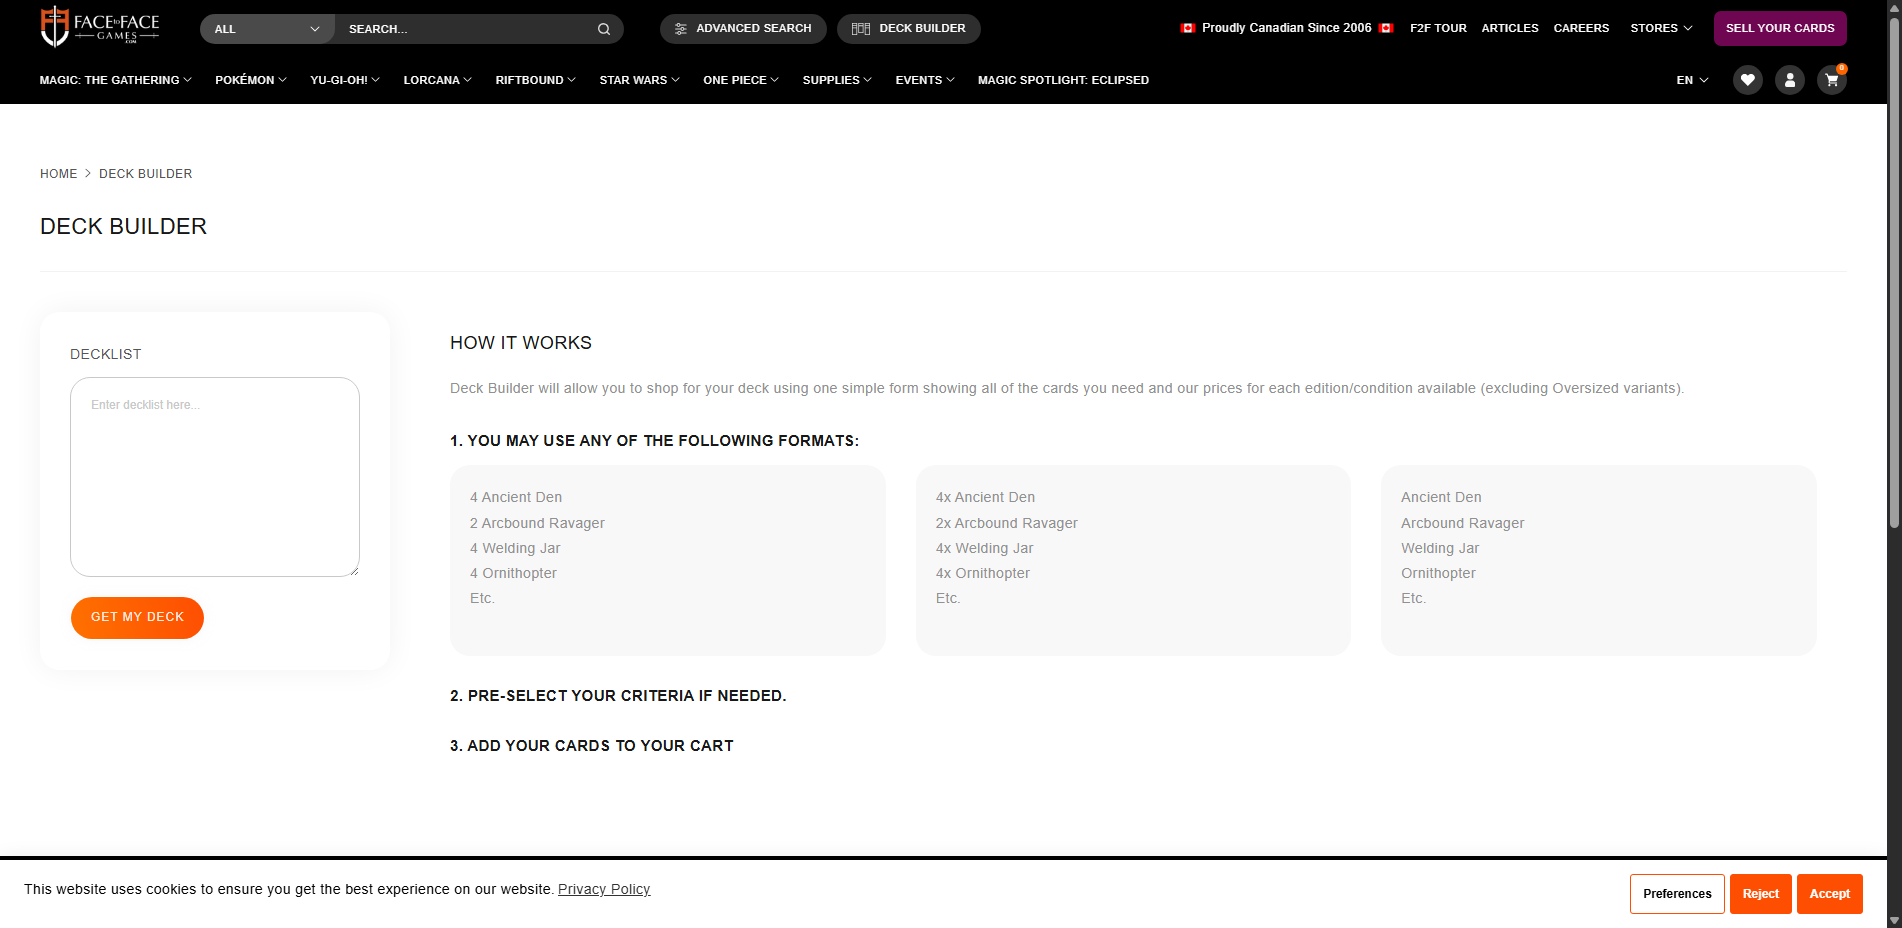
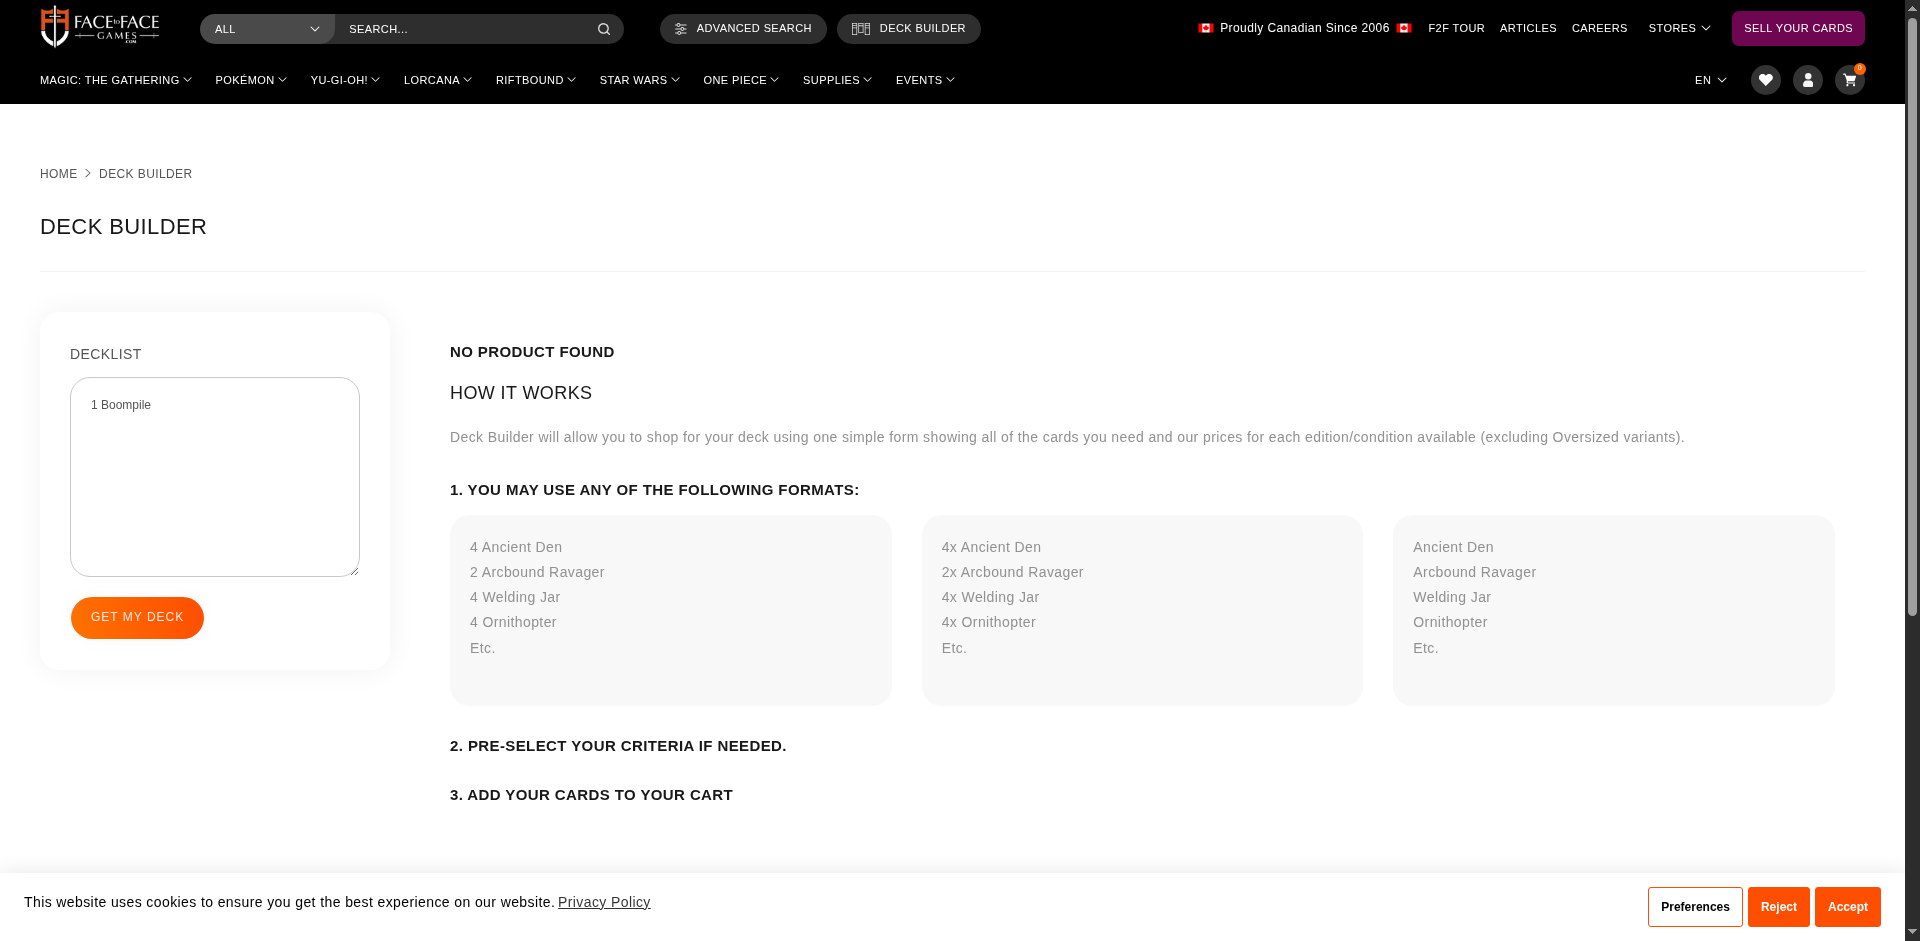
Refactor vendor scraping implementations for FaceToFaceGames, Imaginaire, and MagiCarte
- Updated FaceToFaceGamesVendor to improve error handling and streamline the scraping process.
- Enhanced ImaginaireVendor's Chrome binary detection for better compatibility across platforms.
- Refined MagiCarteVendor's scraping logic to ensure accurate price and quantity extraction.

diff --git a/vendors/imaginaire.py b/vendors/imaginaire.py
@@ -38,33 +38,46 @@ class ImaginaireVendor(BaseVendor):
     def fulfillment_label(self) -> str:
         return "Shipping +$10"
 
-    def _find_chrome_binary(self) -> str:
-        """Locate Chrome executable, including Selenium Manager's cached Chrome for Testing."""
-        import shutil, os, glob
+    def _find_chrome_binary(self) -> str | None:
+        """Locate Chrome/Chromium binary reliably on NixOS, Linux, Windows."""
+        import os
+        import shutil
+        from pathlib import Path
 
-        # System-installed Chrome
-        for name in ("chrome", "chromium", "google-chrome", "chromium-browser"):
+        # 1) Explicit env var from flake shellHook (BEST on NixOS)
+        env_path = os.environ.get("CHROMIUM_BIN")
+        if env_path and Path(env_path).is_file():
+            return env_path
+
+        # 2) PATH lookup (Linux/macOS/Windows)
+        for name in (
+            "chromium",
+            "chromium-browser",
+            "google-chrome",
+            "chrome",
+        ):
             path = shutil.which(name)
-            if path:
-                return str(path)
+            if path and Path(path).is_file():
+                return path
 
-        # Common Windows install paths
-        for candidate in [
+        # 3) Common Linux paths
+        linux_candidates = [
+            "/run/current-system/sw/bin/chromium",
+            "/run/current-system/sw/bin/google-chrome",
+        ]
+        for candidate in linux_candidates:
+            if Path(candidate).is_file():
+                return candidate
+
+        # 4) Windows fallback
+        windows_candidates = [
             r"C:\Program Files\Google\Chrome\Application\chrome.exe",
             r"C:\Program Files (x86)\Google\Chrome\Application\chrome.exe",
             os.path.expanduser(r"~\AppData\Local\Google\Chrome\Application\chrome.exe"),
-        ]:
-            if os.path.exists(candidate):
+        ]
+        for candidate in windows_candidates:
+            if Path(candidate).is_file():
                 return candidate
-
-        # Selenium Manager cache: ~/.cache/selenium/chrome/**/chrome.exe
-        selenium_cache = os.path.expanduser(r"~\.cache\selenium\chrome")
-        if os.path.exists(selenium_cache):
-            matches = glob.glob(
-                os.path.join(selenium_cache, "**", "chrome.exe"), recursive=True
-            )
-            if matches:
-                return str(sorted(matches)[-1])  # pick latest version
 
         return None
 

diff --git a/scraper_manager.py b/scraper_manager.py
@@ -29,22 +29,22 @@ class ScraperManager:
             options.add_argument("--headless=new")
         options.add_argument("--no-sandbox")
         options.add_argument("--disable-dev-shm-usage")
-        options.add_argument("--disable-gpu")
+        #options.add_argument("--disable-gpu")
         options.add_argument("--disable-extensions")
         options.add_argument("--disable-software-rasterizer")
         options.add_argument("--disable-blink-features=AutomationControlled")
         options.add_argument("--window-size=1920,1080")
         options.add_argument("user-agent=Mozilla/5.0 (Windows NT 10.0; Win64; x64) AppleWebKit/537.36 (KHTML, like Gecko) Chrome/120.0.0.0 Safari/537.36")
-        options.add_experimental_option('excludeSwitches', ['enable-logging'])
+        #options.add_experimental_option('excludeSwitches', ['enable-logging'])
 
         # Use Nix-provided chromedriver if available (for NixOS compatibility)
         chromedriver_path = os.environ.get('CHROMEDRIVER_PATH')
         chrome_bin = os.environ.get('CHROME_BIN')
 
-        if chrome_bin:
+        if chrome_bin and os.path.isfile(chrome_bin):
             options.binary_location = chrome_bin
 
-        if chromedriver_path:
+        if chromedriver_path and os.path.isfile(chromedriver_path):
             service = Service(executable_path=chromedriver_path)
             driver = webdriver.Chrome(service=service, options=options)
         else:

diff --git a/todo.MD b/todo.MD
@@ -1,0 +1,1 @@
+- Ajouter les taxes au prix finaux